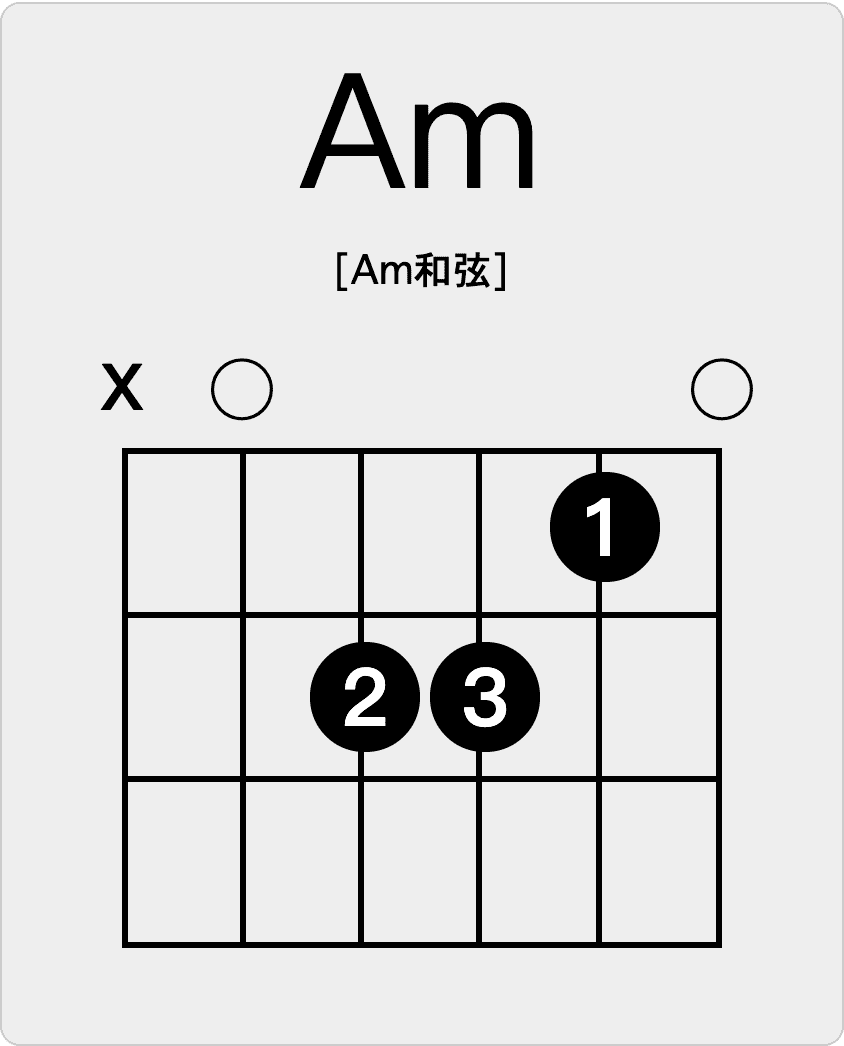
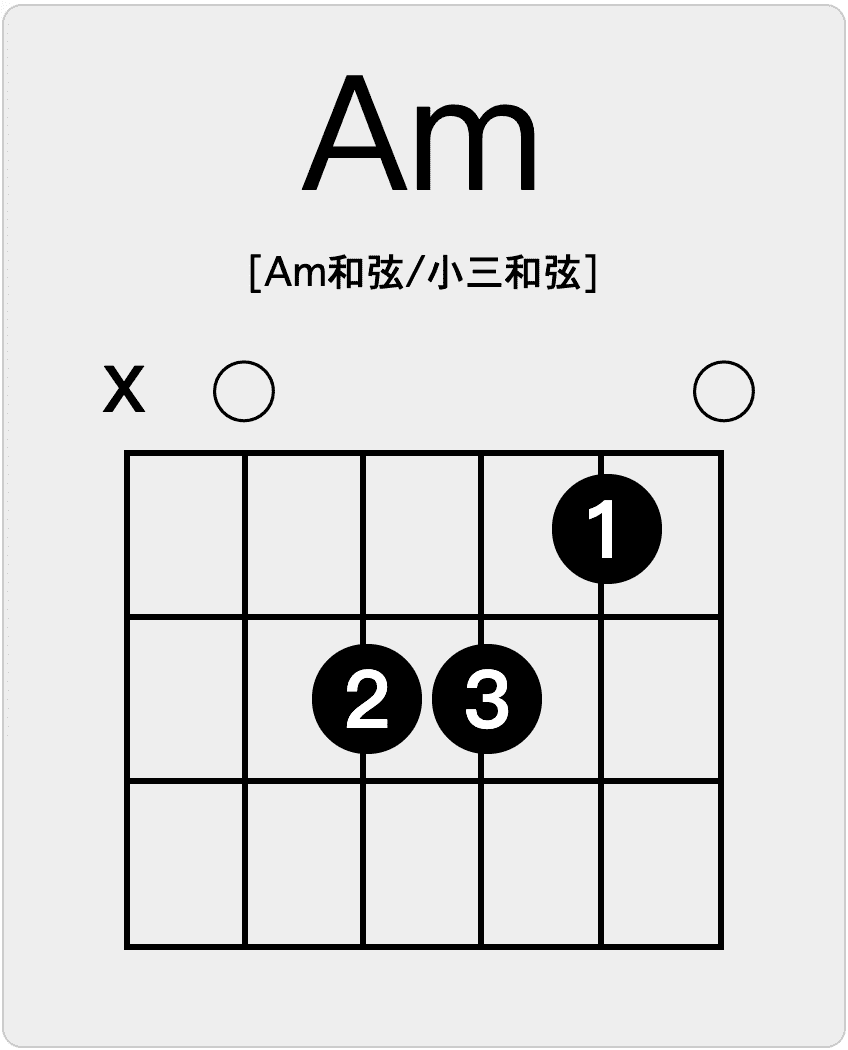
Dm, E, 难道

diff --git a/README.md b/README.md
@@ -41,6 +41,12 @@
 
 - 第8课 三个和弦
 
+  <div style="text-align:inline;">
+      <img src="images/chords/Cmaj7.png" style="zoom:25%;" />
+      <img src="images/chords/D9.png" style="zoom:25%;" />
+      <img src="images/chords/Em.png" style="zoom:25%;" />
+  </div>
+
   > C大7，D9/D挂2，Em/小三。
   >
   > 和弦图相当于把吉他对面立起来看弦和品。
@@ -56,6 +62,10 @@
   > D9的2弦用小指按。
 
 - 第10课 画心弹唱教学
+
+  <div style="text-align:inline;">
+      <img src="images/chords/G.png" style="zoom:25%;" />
+  </div> 
 
   > 调门：看不 = 四弦空弦，穿 = C大7四弦。
   >
@@ -159,5 +169,41 @@
 
 - 第13课 Am和弦与扫弦
 
-  ……
+  <div style="text-align:inline;">
+      <img src="images/chords/Am.png" style="zoom:25%;" />
+  </div> 
+  
+  > Am/小三。
+  >
+  > 往下扫。食指侧面。擦过琴弦。
+  >
+  > - 不可吃弦（进弦容易断弦）。
+  >
+  > - 力度适中（大力不出奇迹）。
+  >
+  > - 六根弦不可同时扫，同时扫会乱弦（音区层次不分明）。
+  >
+  >   往下扫一般扫四根弦（从四弦或五弦），不过没有必要瞄准。
+  >
+  > - 手腕放松。不要僵硬。手腕发力，小臂配合，不要有刻意行为。
+  >
+  > - 手是否落到面板随意。
+  >
+  > - 建议手指捏在一起（比心），否则不太容易控制。
+  
+- 第14课 难道弹唱教学
 
+  <div style="text-align:inline;">
+      <img src="images/chords/Dm.png" style="zoom:25%;" />
+      <img src="images/chords/E.png" style="zoom:25%;" />
+  </div> 
+  
+  > 一节四拍，每个和弦弹四下。
+  >
+  > **强、弱、次强、弱**。融入感情，体会意境。
+  >
+  > 此曲反拍，扫完再唱。
+  
+- 第15课 八六拍节奏
+
+  ……
